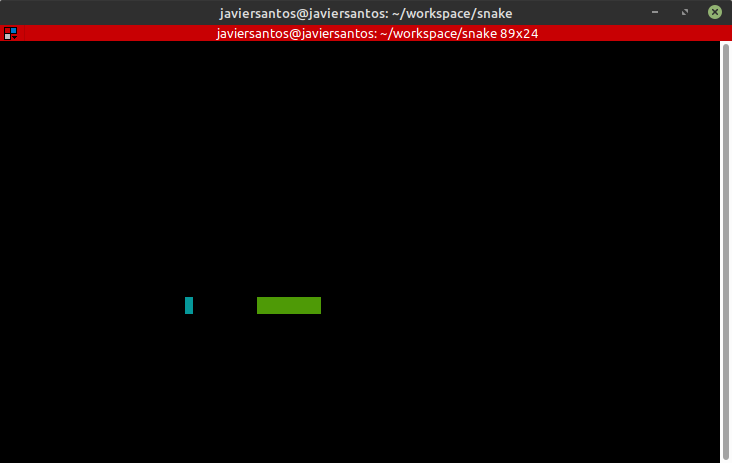
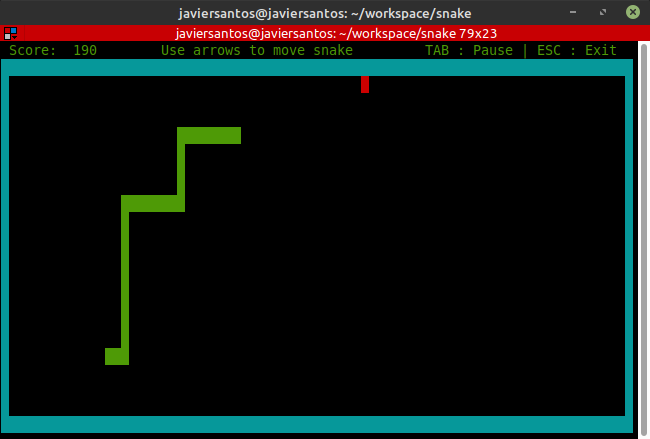
Add more information

diff --git a/printer.go b/printer.go
@@ -28,6 +28,15 @@ func printScore(score int) {
 	termbox.Flush()
 }
 
+func printInstructions() {
+	x := 20
+	var text string = "Use arrows to move snake         TAB : Pause | ESC : Exit"
+	for _, c := range text {
+		termbox.SetCell(x, 0, c, termbox.ColorGreen, termbox.ColorDefault)
+		x++
+	}
+}
+
 func printSnake(s game.Snake) {
 	if lastSnake != nil {
 		for _, body := range lastSnake {
@@ -44,7 +53,7 @@ func printSnake(s game.Snake) {
 }
 
 func printFood(food game.Cell) {
-	termbox.SetCell(food.Column+1, food.Row+2, ' ', termbox.ColorCyan, termbox.ColorCyan)
+	termbox.SetCell(food.Column+1, food.Row+2, ' ', termbox.ColorRed, termbox.ColorRed)
 }
 
 func printMessage(x, y int, msg string) {
@@ -56,23 +65,32 @@ func printMessage(x, y int, msg string) {
 	termbox.Flush()
 }
 
+/* ColorBlack
+ColorRed
+ColorGreen
+ColorYellow
+ColorBlue
+ColorMagenta
+ColorCyan
+ColorWhite */
+
 func printWalls(w int, h int) {
 	for i := 1; i < h+3; i++ {
-		termbox.SetCell(0, i, ' ', termbox.ColorGreen, termbox.ColorGreen) // |
+		termbox.SetCell(0, i, ' ', termbox.ColorCyan, termbox.ColorCyan) // |
 		//termbox.SetCell(1, i, ' ', termbox.ColorGreen, termbox.ColorGreen)
 	}
 
 	for i := 1; i < h+3; i++ {
-		termbox.SetCell(w+1, i, ' ', termbox.ColorGreen, termbox.ColorGreen) //|
+		termbox.SetCell(w+1, i, ' ', termbox.ColorCyan, termbox.ColorCyan) //|
 		//termbox.SetCell(9, i, ' ', termbox.ColorGreen, termbox.ColorGreen)
 	}
 
 	for i := 0; i < w+2; i++ {
-		termbox.SetCell(i, 1, ' ', termbox.ColorGreen, termbox.ColorGreen) // --
+		termbox.SetCell(i, 1, ' ', termbox.ColorCyan, termbox.ColorCyan) // --
 	}
 
 	for i := 0; i < w+2; i++ {
-		termbox.SetCell(i, h+2, ' ', termbox.ColorGreen, termbox.ColorGreen) // --
+		termbox.SetCell(i, h+2, ' ', termbox.ColorCyan, termbox.ColorCyan) // --
 	}
 
 }

diff --git a/main.go b/main.go
@@ -46,6 +46,7 @@ func main() {
 		printWalls(boardWidth, boardHeight)
 		game.StartScore()
 		printScore(game.GetCurentScore())
+		printInstructions()
 
 		snake := game.NewSnake()
 		printSnake(*snake)
